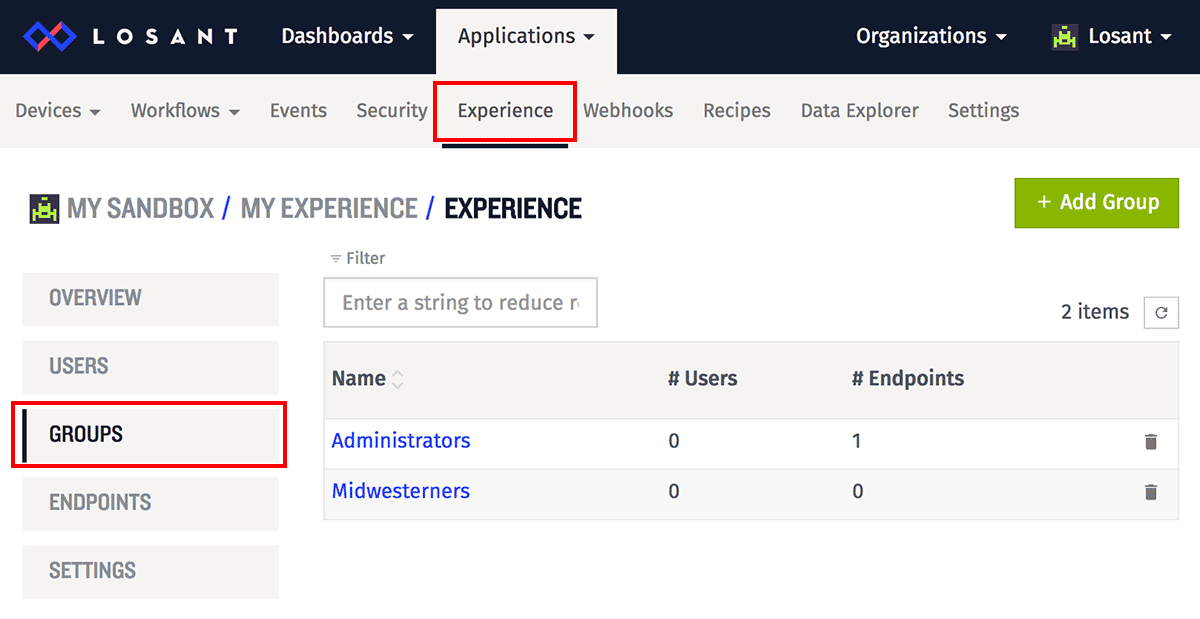
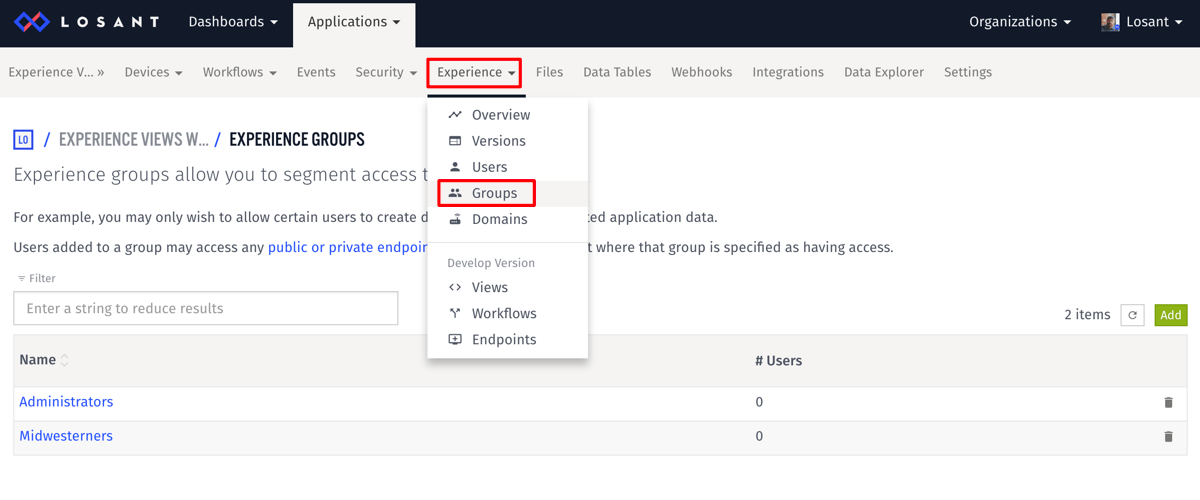
update experience group screenshots

diff --git a/docs/experiences/groups.md b/docs/experiences/groups.md
@@ -6,7 +6,7 @@ An Experience Group is a collection of [users](/experiences/users/) and [endpoin
 
 ![Experience Groups](/images/experiences/groups-list.png "Experience Groups")
 
-Groups are listed within the "Groups" tab of your application's "Experience" subsection. Click the group's name in the list to view its users and endpoints and to edit its configuration.
+Groups are can be accessed through the "Groups" menu item of your application's "Experience" menu. Click the group's name in the list to view view or modify user membership. Note: while endpoints can also belong to groups, endpoint membership can only be modified on the endpoint edit page.
 
 ## Adding an Experience Group
 
@@ -23,7 +23,6 @@ Group configuration takes four parameters:
 * **Name** is simply the name of the group; it is for display purposes only and in no way affects the group's functionality, nor is it ever exposed to your users. The field is required.
 * **Description** is a longer description of the group. Similar to the name, it is only for display purposes.
 * **Users** is an array of users to include in the group. Any user who is not in the group will not have access to the endpoints in the group.
-* **Endpoints** is an array of endpoints to include in the group. Only users in the group will have access to these endpoints.
 
 ### Endpoint Access Control
 
